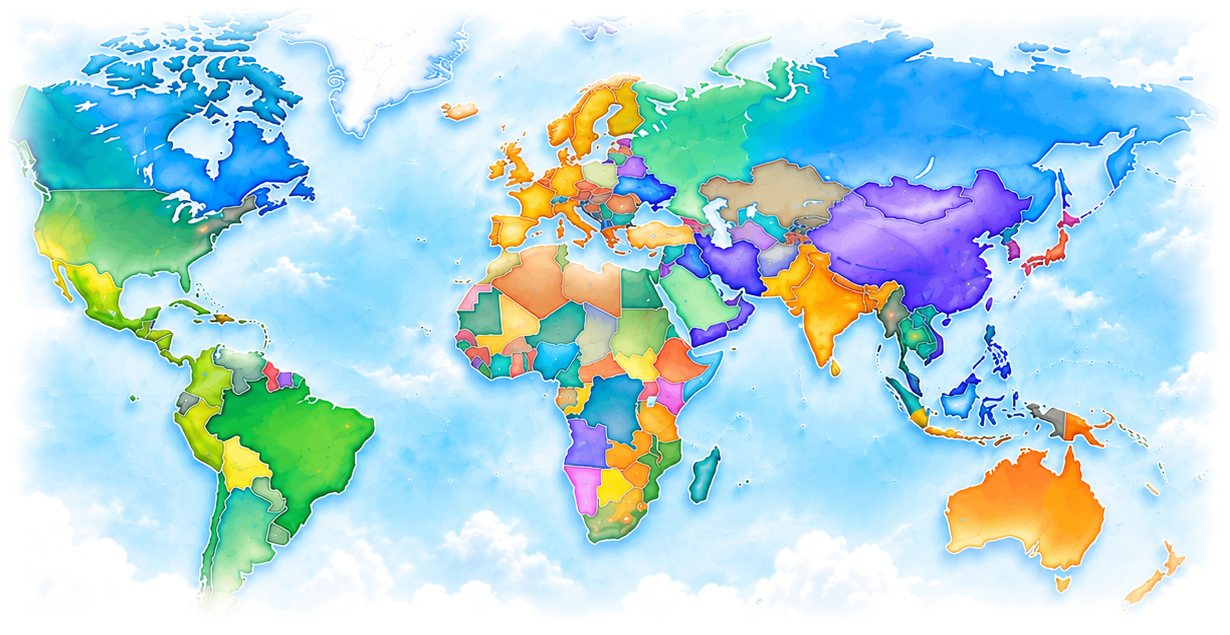
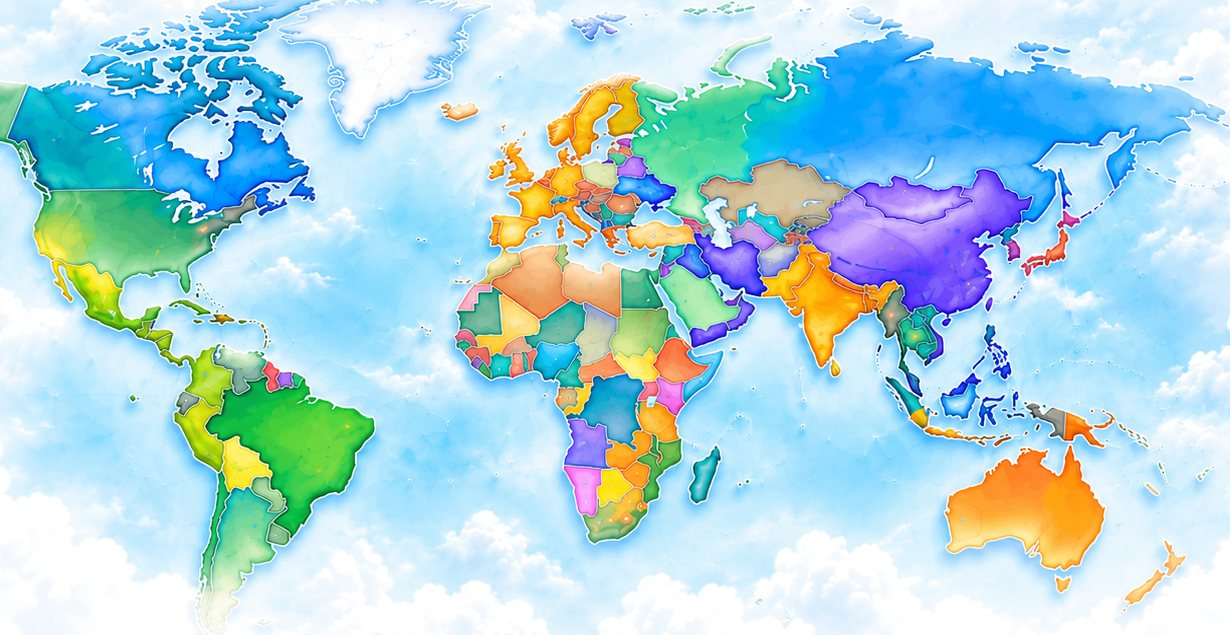
Day mode: one cloud scene behind the home title, map and counters
- world_map_day_top.jpg (12 KB) / world_map_day_bottom.jpg (5 KB): the
  clouds above and below the map, taken from the owner's picture's own
  cloud strips, cut from one scene so they join the map seamlessly at
  screen width; lighter behind the title (readable), pure white where the
  page continues.
- cargo_marketplace_screen.dart: day only — title block on the top
  clouds, counters on the bottom clouds (_DayScene, static pictures).
  Night builds the same layout as before.
- Map edges no longer fade (the scene continues above / below; sides run
  to the screen edge as in the owner's design).
- scripts/make_day_map.py builds the scene; test updated.

Claude-Session: https://claude.ai/code/session_01TwoedHDaZ4iZm6AS71Mrpj

diff --git a/lib/features/cargo/presentation/cargo_marketplace_screen.dart b/lib/features/cargo/presentation/cargo_marketplace_screen.dart
@@ -216,15 +216,28 @@ class _Hero extends ConsumerWidget {
 
     String stat(int n) => loaded ? '$n' : '—';
 
+    // Day mode: title, map and counters stand in one cloud scene (the
+    // clouds above / below the map are separate pictures that continue it).
+    final day = AppColors.isDay;
+    final topPad = MediaQuery.of(context).padding.top + 10;
     return Container(
       decoration: BoxDecoration(
         color: AppColors.hero,
         borderRadius: const BorderRadius.vertical(bottom: Radius.circular(26)),
       ),
-      padding: EdgeInsets.only(top: MediaQuery.of(context).padding.top + 10, bottom: 16),
+      padding: EdgeInsets.only(top: day ? 0 : topPad, bottom: 16),
       child: Column(
         crossAxisAlignment: CrossAxisAlignment.stretch,
         children: [
+          _DayScene(
+            show: day,
+            asset: 'assets/images/world_map_day_top.jpg',
+            alignment: Alignment.bottomCenter,
+            child: Padding(
+            padding: EdgeInsets.only(top: day ? topPad : 0),
+            child: Column(
+            crossAxisAlignment: CrossAxisAlignment.stretch,
+            children: [
           Padding(
             padding: const EdgeInsets.symmetric(horizontal: 16),
             child: Row(
@@ -263,8 +276,18 @@ class _Hero extends ConsumerWidget {
             ),
           ),
           const SizedBox(height: 6),
+            ]),
+            ),
+          ),
           // Full width, edge to edge; edges fade into the page colour.
           LiveMap(liveLabel: strings.t('map_live_badge')),
+          _DayScene(
+            show: day,
+            asset: 'assets/images/world_map_day_bottom.jpg',
+            alignment: Alignment.topCenter,
+            child: Column(
+            crossAxisAlignment: CrossAxisAlignment.stretch,
+            children: [
           const SizedBox(height: 14),
           // Three live counters (all real numbers from the database).
           Padding(
@@ -299,6 +322,8 @@ class _Hero extends ConsumerWidget {
                 _AddLoadButton(label: strings.t('nav_add_cargo'), onTap: () => context.pushOnce('/cargo/create')),
               ],
             ),
+          ),
+            ]),
           ),
           if (topRoutes.isNotEmpty) ...[
             const SizedBox(height: 14),
@@ -361,6 +386,28 @@ class _Hero extends ConsumerWidget {
           ],
         ],
       ),
+    );
+  }
+}
+
+/// Day mode: [child] drawn on a cloud picture shown at the screen width
+/// ([alignment] = the edge that touches the map, so the clouds continue the
+/// map's own). Night: just [child].
+class _DayScene extends StatelessWidget {
+  final bool show;
+  final String asset;
+  final Alignment alignment;
+  final Widget child;
+  const _DayScene({required this.show, required this.asset, required this.alignment, required this.child});
+
+  @override
+  Widget build(BuildContext context) {
+    if (!show) return child;
+    return DecoratedBox(
+      decoration: BoxDecoration(
+        image: DecorationImage(image: AssetImage(asset), fit: BoxFit.fitWidth, alignment: alignment),
+      ),
+      child: child,
     );
   }
 }

diff --git a/test/live_map_day_test.dart b/test/live_map_day_test.dart
@@ -38,4 +38,15 @@ void main() {
     }
     expect(File('scripts/make_day_map.py').existsSync(), isTrue);
   });
+
+  test('day cloud scene: clouds above / below the map, light, never at night', () {
+    for (final f in ['world_map_day_top.jpg', 'world_map_day_bottom.jpg']) {
+      final bytes = File('assets/images/$f').readAsBytesSync();
+      expect(_jpegSize(bytes).$1, kDayImgW.toInt(), reason: '$f: same width as the map, so they join');
+      expect(bytes.length, lessThan(40 * 1024), reason: f);
+    }
+    final home = File('lib/features/cargo/presentation/cargo_marketplace_screen.dart').readAsStringSync();
+    expect(home.contains('if (!show) return child;'), isTrue);
+    expect(home.contains('padding: EdgeInsets.only(top: day ? 0 : topPad, bottom: 16)'), isTrue);
+  });
 }

diff --git a/scripts/make_day_map.py b/scripts/make_day_map.py
@@ -5,9 +5,12 @@ Usage (from the repo root):
 (geojson: github.com/nvkelso/natural-earth-vector, geojson/)
 Writes:
 * assets/images/world_map_day.jpg — the picture, zoomed in (owner's choice
-  "Variant 3": most of the cloud margin cut, edges fade to pure white
-  #FFFFFF = the day page colour) with a slightly paler sea (saturation
-  -35 % outside the land, land colours untouched);
+  "Variant 3") with a slightly paler sea (saturation -35 % outside the
+  land, land colours untouched);
+* assets/images/world_map_day_top.jpg / world_map_day_bottom.jpg — the
+  clouds above and below it (from the picture's own cloud strips): one
+  cloud scene behind the home title, map and counters that fades to pure
+  white (#FFFFFF, the day page) at the top and bottom;
 * lib/features/cargo/presentation/widgets/live_map_day_geo.dart — the
   live-map hubs (live_map.dart, same order) and city lights placed on the
   picture, via a smooth warp fitted to the landmarks marked on it below.
@@ -120,15 +123,41 @@ for f in json.load(open(COUNTRIES))['features']:
         draw.polygon([tuple(p) for p in to_pic(lonlat(ring[:, ::-1].copy()))], fill=255)
 land = np.asarray(mask.filter(ImageFilter.MaxFilter(25)).filter(ImageFilter.GaussianBlur(10)), float) / 255
 a = np.asarray(im, float) / 255
-a = a + (a.max(-1)[..., None] - a) * ((1 - SEA_KEEP) * (1 - land))[..., None]  # paler sea
-a = a[CROP[1]:CROP[3], CROP[0]:CROP[2]] * 255
-H, W = a.shape[:2]
-yy, xx = np.mgrid[0:H, 0:W]
-edge = ss(0, 60, np.minimum(np.minimum(xx, W - 1 - xx), np.minimum(yy, H - 1 - yy)))[..., None]
-a = a * edge + 255 * (1 - edge)  # soft fade to the white page
-lift = np.clip((a.min(-1) - 244) / 8, 0, 1)[..., None]  # near-white -> pure white
-a = a + (255 - a) * lift * lift * (3 - 2 * lift)
-Image.fromarray(a.clip(0, 255).astype(np.uint8)).save('assets/images/world_map_day.jpg', quality=84, optimize=True, progressive=True)
+a = (a + (a.max(-1)[..., None] - a) * ((1 - SEA_KEEP) * (1 - land))[..., None]) * 255  # paler sea
+pale = Image.fromarray(a.clip(0, 255).astype(np.uint8))
+X0, Y0, X1, Y1 = CROP
+W, H = X1 - X0, Y1 - Y0
+
+
+def band(box):
+    """A cloud strip of the picture, scaled to the map width."""
+    c = pale.crop(box)
+    return np.asarray(c.resize((W, round(c.height * W / c.width)), Image.LANCZOS), float)
+
+
+def vjoin(top, bottom, n):
+    w = ss(0, 1, np.linspace(0, 1, n))[:, None, None]
+    return np.concatenate([top[:-n], top[-n:] * (1 - w) + bottom[:n] * w, bottom[n:]], 0)
+
+
+# One cloud scene, top to bottom: clouds behind the title, the map, clouds
+# behind the counters. The extra clouds come from the picture itself (its
+# strips above and below the map). Cut into three pictures that join
+# seamlessly when all are shown at the screen width.
+above, below = band((0, 10, pale.width, 175)), band((560, 805, pale.width, pale.height))
+top = vjoin(vjoin(below[::-1, ::-1], above, 40), a[:Y0, X0:X1], 50)
+bottom = vjoin(a[Y1:, X0:X1], below, 40)
+scene = np.concatenate([top, a[Y0:Y1, X0:X1], bottom], 0)
+T, n = top.shape[0], scene.shape[0]
+y = np.arange(n)[:, None, None]
+scene = scene + (255 - scene) * (0.40 * ss(T - 60, 0, y))  # lighter behind the title (readable text)
+scene = scene + (255 - scene) * ss(40, 0, y)               # white at the very top
+scene = scene + (255 - scene) * ss(n - 90, n - 4, y)       # white where the page continues
+lift = np.clip((scene.min(-1) - 244) / 8, 0, 1)[..., None]  # near-white -> pure white
+scene = scene + (255 - scene) * lift * lift * (3 - 2 * lift)
+scene = scene.clip(0, 255).astype(np.uint8)
+for name, part in (('world_map_day_top', scene[:T]), ('world_map_day', scene[T:T + H]), ('world_map_day_bottom', scene[T + H:])):
+    Image.fromarray(part).save(f'assets/images/{name}.jpg', quality=84, optimize=True, progressive=True)
 day = day - np.array(CROP[:2])
 day_sparks = day_sparks - np.array(CROP[:2])
 
